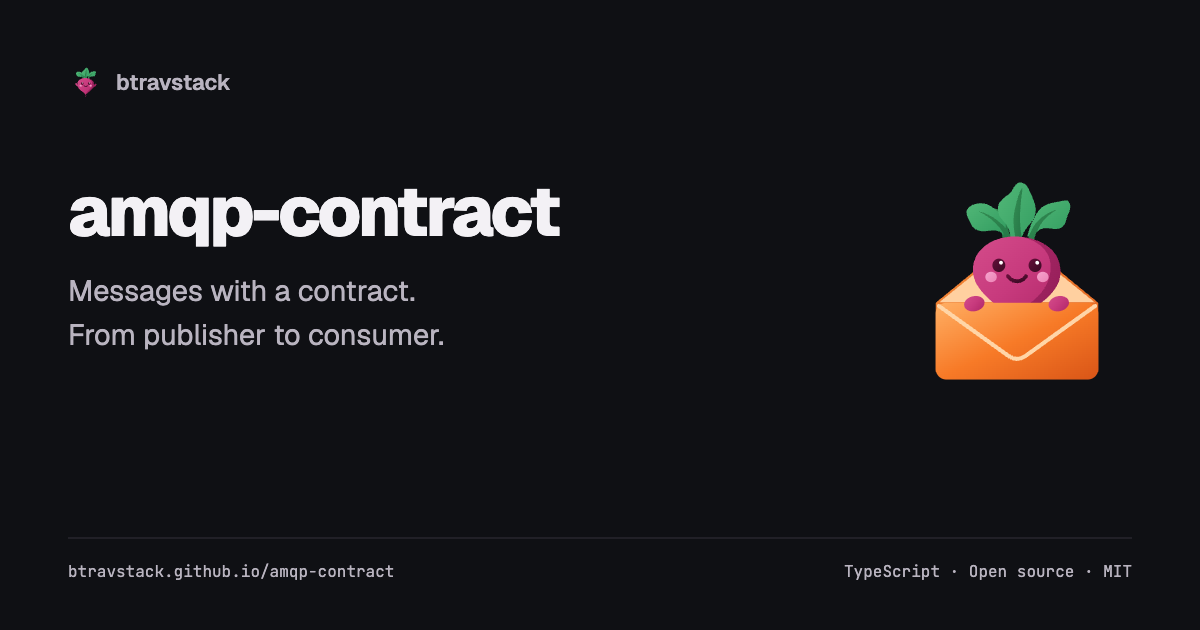
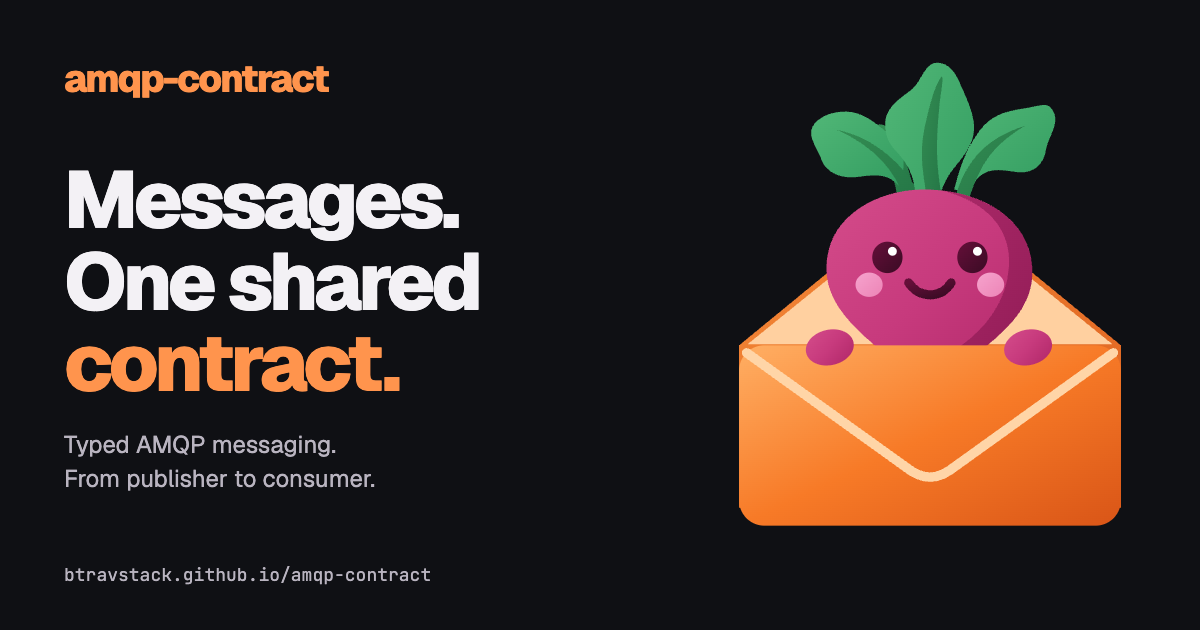
docs: extend the approved social card design to every project

diff --git a/branding/social-card.html b/branding/social-card.html
@@ -12,21 +12,29 @@
 :root { --paper:#0f1014; --ink:#f3f1f5; --muted:#b9b4c0; --rule:#323039; --accent:#e875ab; --display:'Geist',sans-serif; --mono:'JetBrains Mono',monospace; }
 * { box-sizing:border-box; }
 body { margin:0; width:1200px; height:630px; background:var(--paper); color:var(--ink); font-family:var(--display); }
-main { position:relative; height:100%; padding:64px 68px; }
-.brand { display:flex; align-items:center; gap:12px; color:var(--muted); font-size:22px; font-weight:600; }
-.brand img { width:36px; height:36px; }
-h1 { max-width:820px; margin:74px 0 20px; font-size:70px; font-weight:800; letter-spacing:-3px; line-height:1.07; }
-p { max-width:690px; margin:0; font-size:29px; line-height:1.5; color:var(--muted); }
-.mark { position:absolute; width:230px; height:230px; right:68px; top:177px; }
-footer { position:absolute; bottom:48px; left:68px; right:68px; border-top:1px solid var(--rule); padding-top:22px; display:flex; justify-content:space-between; font:16px var(--mono); color:var(--muted); }
+main { position:relative; height:100%; }
+p { margin:0; color:var(--muted); }
 .website-card { padding:54px 64px; overflow:hidden; }
 .website-wordmark { position:relative; z-index:1; font-size:38px; font-weight:800; letter-spacing:-1.8px; }
 .website-wordmark span { color:var(--accent); }
-.website-card h1 { position:relative; z-index:1; margin:56px 0 23px; max-width:700px; font-size:88px; line-height:1.02; letter-spacing:-4.4px; }
+.website-card h1 { position:relative; z-index:1; margin:56px 0 23px; max-width:700px; font-size:88px; font-weight:800; line-height:1.02; letter-spacing:-4.4px; }
 .website-card h1 span { color:var(--accent); }
 .website-card p { position:relative; z-index:1; font-size:24px; line-height:1.45; }
 .website-mascot { position:absolute; width:610px; height:610px; top:10px; right:-48px; }
 .website-address { position:absolute; left:64px; bottom:44px; font:18px var(--mono); color:var(--muted); }
+:root { --unthrown:#65c9bd; --entity:#e3ad57; --di:#80aff1; --temporal-contract:#a1aaff; --amqp-contract:#ff944d; --tools:#92bad1; --theme:#e875ab; }
+.project-card h1 { font-size:80px; letter-spacing:-4px; max-width:650px; }
+.project-card .website-wordmark { color:var(--project-accent, var(--accent)); }
+.project-card h1 span { color:var(--project-accent, var(--accent)); }
+.project-card .project-mascot { width:540px; height:540px; top:50px; right:0; }
+.project-card p { max-width:650px; }
+.unthrown { --project-accent:var(--unthrown); }
+.entity { --project-accent:var(--entity); }
+.di { --project-accent:var(--di); }
+.temporal-contract { --project-accent:var(--temporal-contract); }
+.amqp-contract { --project-accent:var(--amqp-contract); }
+.tools { --project-accent:var(--tools); }
+.theme { --project-accent:var(--theme); }
 </style>
 <template id="website-card">
 <div class="website-wordmark"><span>btrav</span>stack</div>
@@ -35,20 +43,17 @@ footer { position:absolute; bottom:48px; left:68px; right:68px; border-top:1px s
 <img class="website-mascot" src="../apps/website/public/logos/framework.png" alt="The smiling beetroot mascot sitting on three teal layers">
 <div class="website-address">btravstack.github.io</div>
 </template>
-<main>
-<div class="brand"><img src="../apps/website/public/logos/btravstack-dark.svg" alt="">btravstack</div>
-<h1></h1><p></p><img class="mark" alt="">
-<footer><span class="url"></span><span>TypeScript · Open source · MIT</span></footer>
-</main>
+<main></main>
 <script>
 const cards = {
-  framework: ['btravstack', 'Your application, composed.<br>Your process, taken care of.', 'btravstack.github.io/btravstack'],
-  unthrown: ['unthrown', 'Errors you can handle.<br>Failures you can see in the type.', 'btravstack.github.io/unthrown'],
-  entity: ['entity', 'Your domain, declared once.<br>Validated at the boundary.', 'btravstack.github.io/entity'],
-  'temporal-contract': ['temporal-contract', 'Durable workflows.<br>One contract, from client to worker.', 'btravstack.github.io/temporal-contract'],
-  'amqp-contract': ['amqp-contract', 'Messages with a contract.<br>From publisher to consumer.', 'btravstack.github.io/amqp-contract'],
-  tools: ['btravstack tools', 'Shared conventions.<br>A consistent build and release toolchain.', 'github.com/btravstack/tools'],
-  theme: ['btravstack theme', 'One visual language.<br>Every project, unmistakably related.', 'btravstack.github.io'],
+  framework: ['btravstack', 'Your app,<br><span>composed.</span>', 'A TypeScript backend framework.<br>Your process, taken care of.', 'btravstack.github.io/btravstack'],
+  unthrown: ['unthrown', 'Errors you<br>can <span>handle.</span>', 'Errors as values, for TypeScript.<br>Failures you can see in the type.', 'btravstack.github.io/unthrown'],
+  entity: ['entity', 'Your domain.<br>Declared<br><span>once.</span>', 'Domain entities for TypeScript.<br>Validated at the boundary.', 'btravstack.github.io/btravstack/entity'],
+  di: ['di', 'Your wiring.<br>Proven<br><span>before boot.</span>', 'Typed dependency injection.<br>Compose your graph with confidence.', 'btravstack.github.io/btravstack/reference/di'],
+  'temporal-contract': ['temporal-contract', 'Durable<br>workflows.<br><span>One contract.</span>', 'Typed Temporal workflows.<br>From client to worker.', 'btravstack.github.io/temporal-contract'],
+  'amqp-contract': ['amqp-contract', 'Messages.<br>One shared<br><span>contract.</span>', 'Typed AMQP messaging.<br>From publisher to consumer.', 'btravstack.github.io/amqp-contract'],
+  tools: ['btravstack tools', 'One shared<br><span>toolchain.</span>', 'Consistent builds and releases.<br>Conventions that travel with your project.', 'github.com/btravstack/tools'],
+  theme: ['btravstack theme', 'One family.<br>One visual<br><span>language.</span>', 'A shared VitePress theme.<br>Every project, unmistakably related.', 'btravstack.github.io'],
 };
 const key = new URLSearchParams(location.search).get('project') || 'btravstack';
 if (key === 'btravstack') {
@@ -56,12 +61,20 @@ if (key === 'btravstack') {
   main.className = 'website-card';
   main.replaceChildren(document.querySelector('#website-card').content.cloneNode(true));
 } else {
-  const [name, description, url] = cards[key];
-  document.querySelector('h1').textContent = name;
+  const [name, headline, description, url] = cards[key];
+  const main = document.querySelector('main');
+  main.className = `website-card project-card ${key}`;
+  main.replaceChildren(document.querySelector('#website-card').content.cloneNode(true));
+  document.querySelector('.website-wordmark').textContent = name;
+  document.querySelector('h1').innerHTML = headline;
   document.querySelector('p').innerHTML = description;
-  document.querySelector('.url').textContent = url;
-  document.querySelector('.mark').src = `../apps/website/public/logos/${key}-dark.svg`;
-  document.querySelector('.mark').alt = `${name} logo`;
+  document.querySelector('.website-address').textContent = url;
+  const mascot = document.querySelector('.website-mascot');
+  if (key !== 'framework') {
+    mascot.src = `../apps/website/public/logos/${key}-dark.svg`;
+    mascot.classList.add('project-mascot');
+  }
+  mascot.alt = `${name} beetroot mascot`;
 }
 </script>
 </html>

diff --git a/README.md b/README.md
@@ -51,11 +51,13 @@ and the shared theme's attribution mark. The source and palette live in
 
 [The logo proof sheet](branding/logo-family.png) shows light/dark variants and
 small sizes. The editable [social card](branding/social-card.html) accepts
-`?project=btravstack` (or `framework`, `unthrown`, `entity`, `amqp-contract`,
+`?project=btravstack` (or `framework`, `unthrown`, `entity`, `di`, `amqp-contract`,
 `temporal-contract`, `tools`, `theme`). Render at 1200 × 630 with device scale
 factor 1 after its fonts and images load. Exports live under
 `apps/website/public/og-*.png`; project repositories carry local copies.
 
-The default website card uses the approved framework PNG at a larger scale,
-with the homepage headline and shared wordmark. Keep that composition distinct
-from the individual project cards, and check it at thumbnail size when editing.
+All cards pair a prominent project name and short headline with the approved
+mascot at a larger scale. The website and framework use the original framework
+PNG; the other projects use their SVG illustrations and accent colors. Check
+each composition at thumbnail size when editing. Entity and DI display their
+integrated framework documentation addresses.
